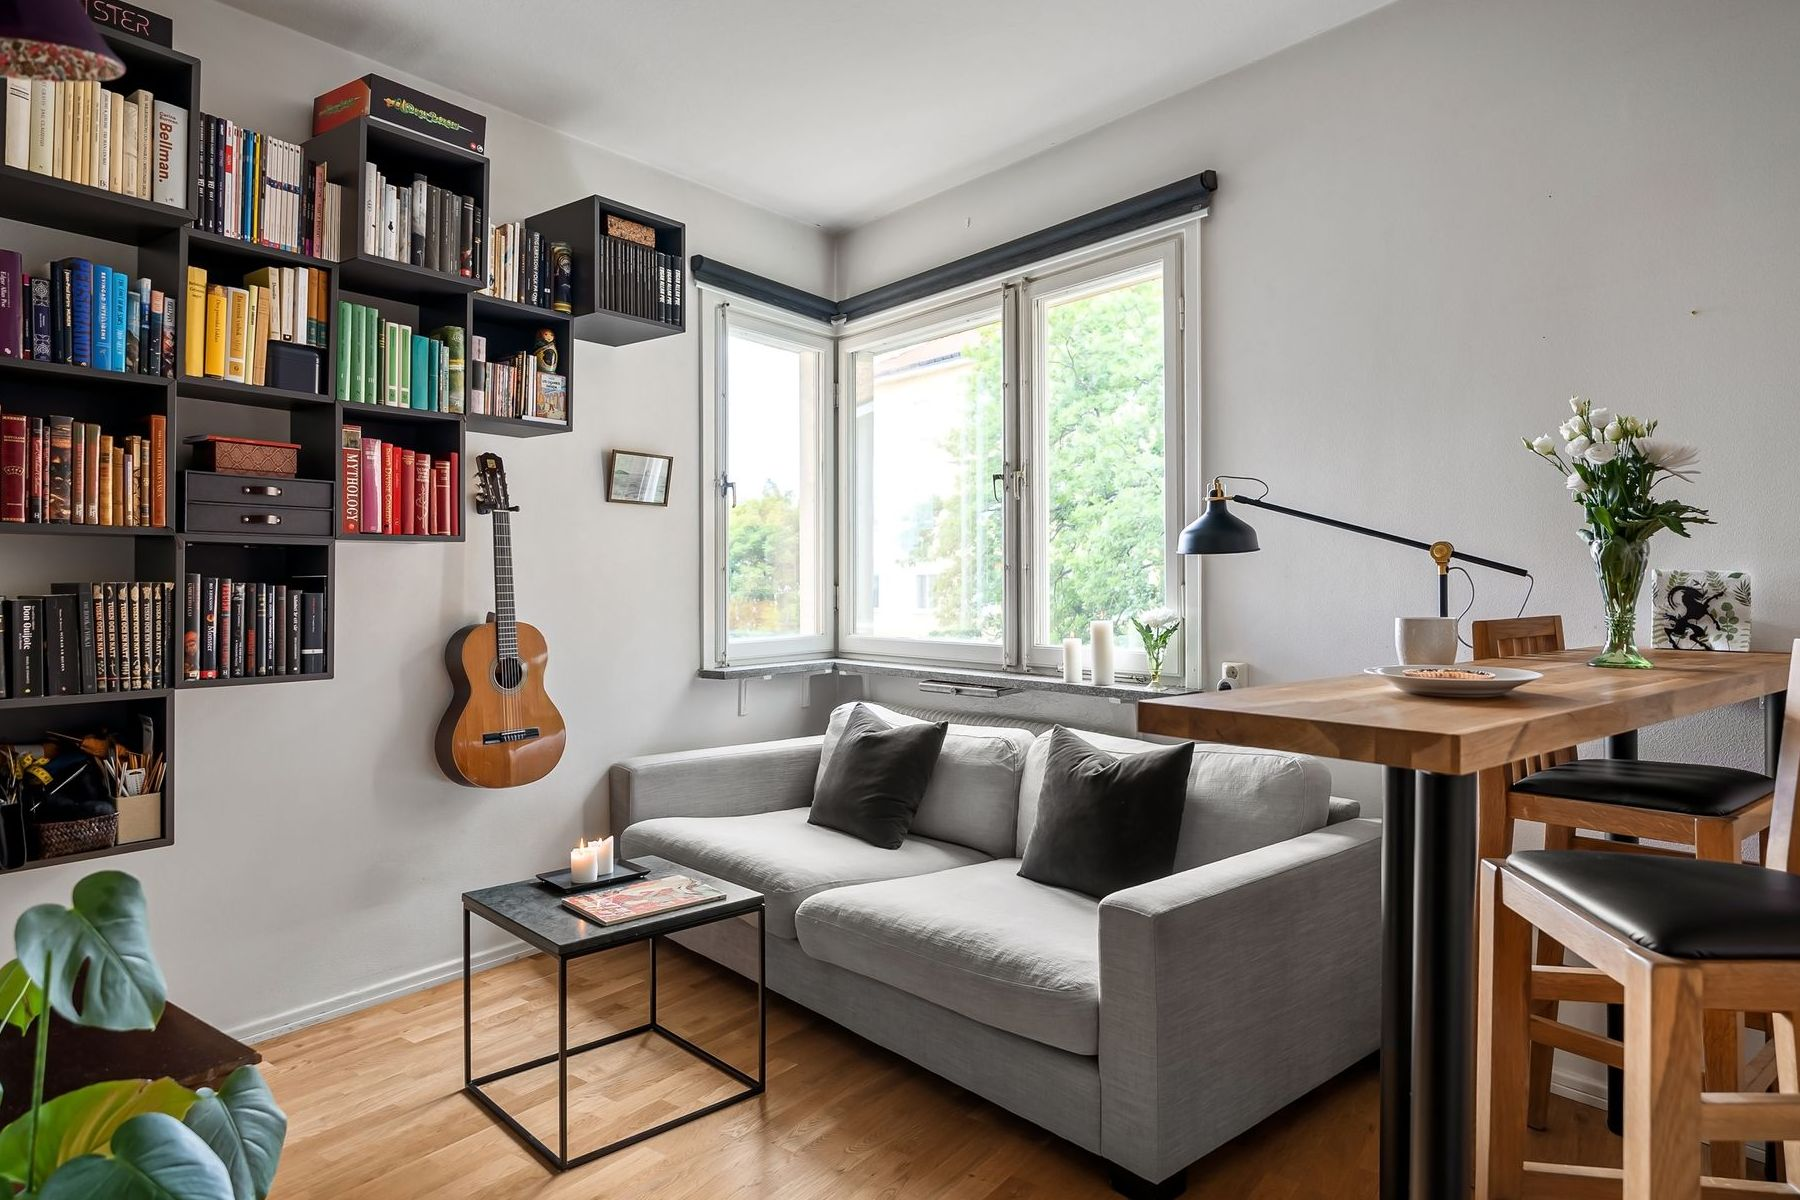
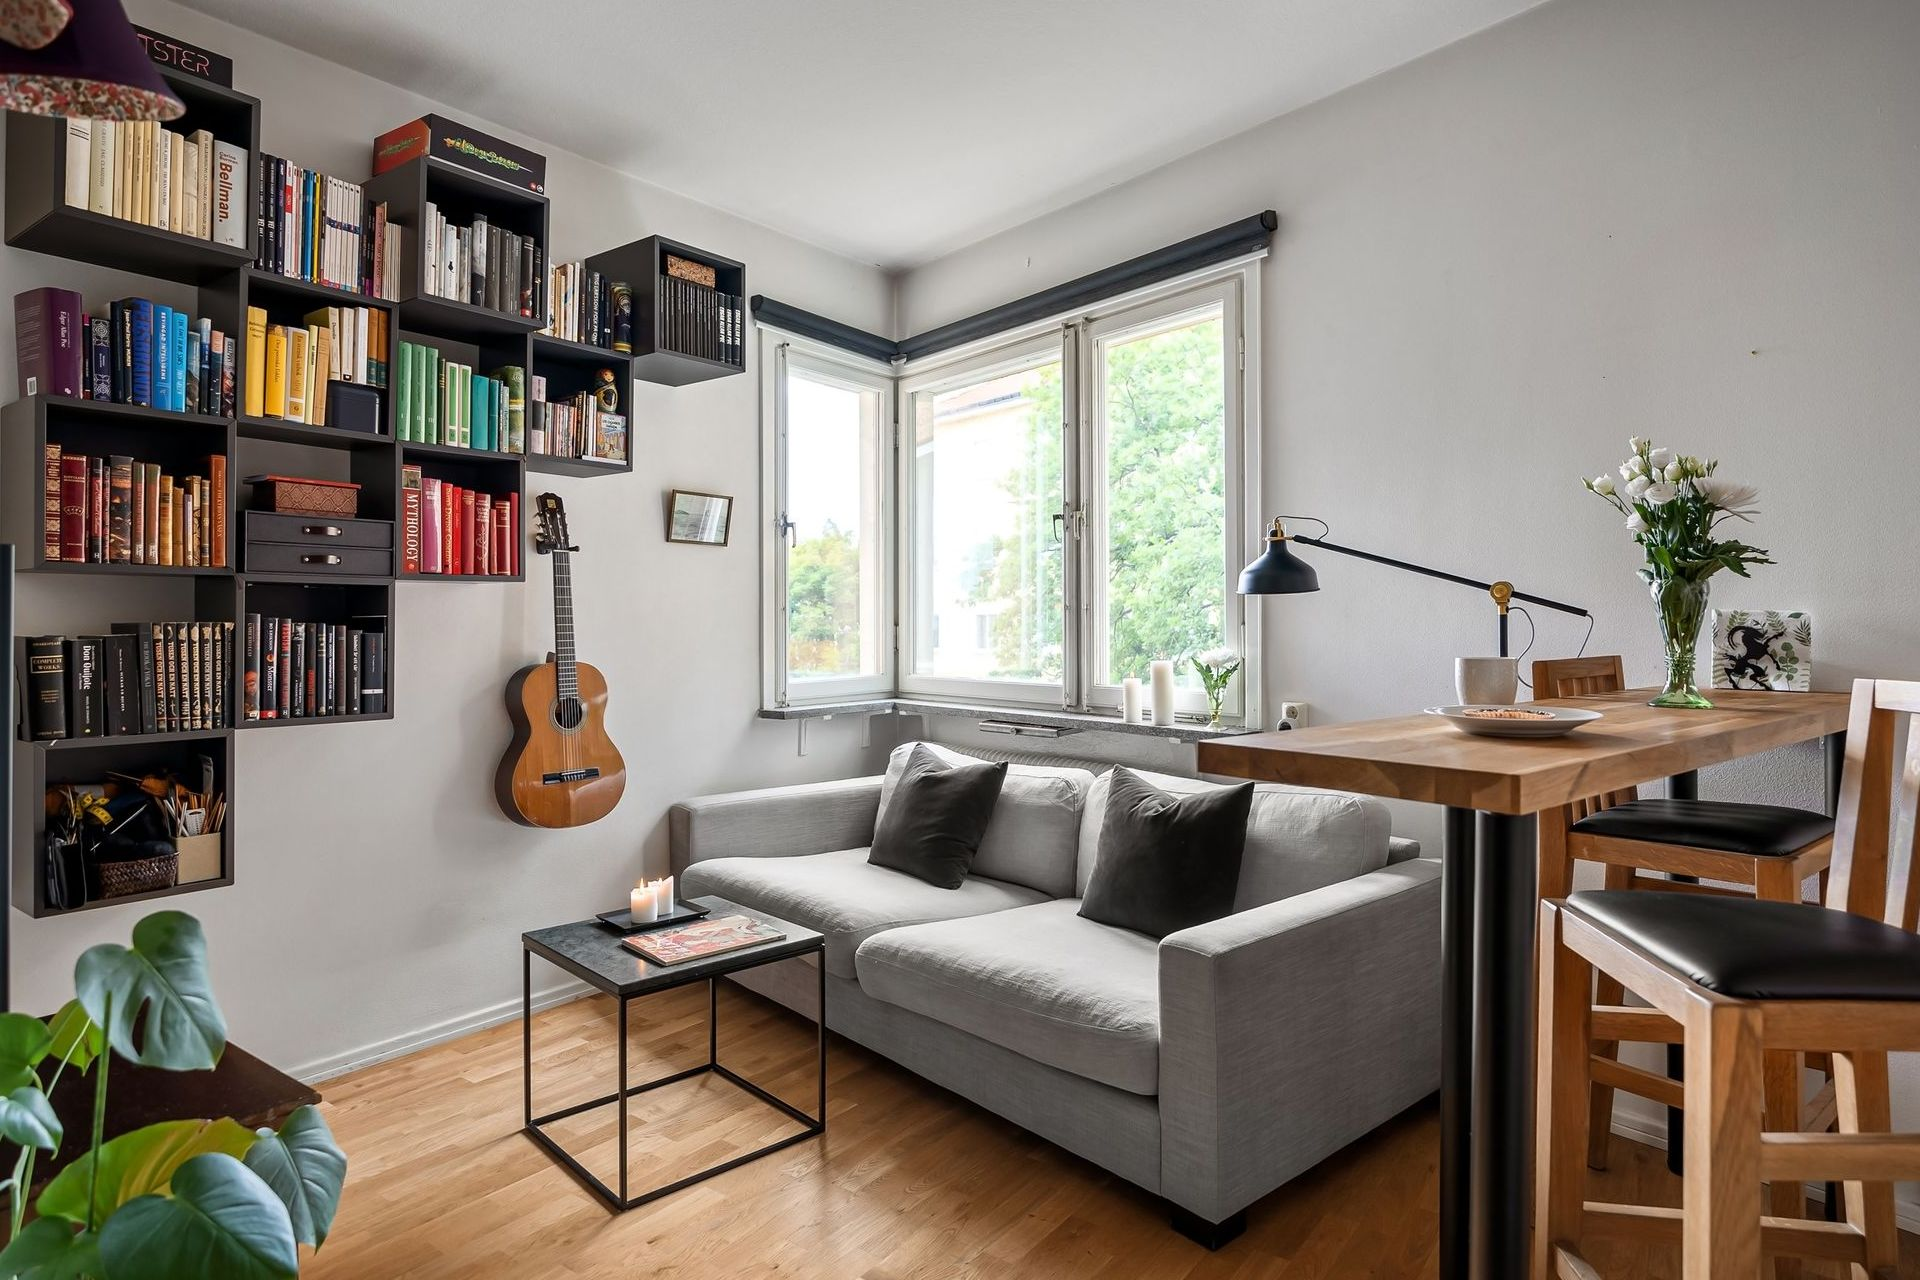
feat: photo quality checks (dark, blurry, duplicate)

diff --git a/packages/core/src/photos/quality.ts b/packages/core/src/photos/quality.ts
@@ -1,0 +1,90 @@
+import { readdirSync, readFileSync } from "node:fs";
+import { extname, basename, join } from "node:path";
+import sharp from "sharp";
+import type { Block, ImageMediaType } from "../model.js";
+
+export interface Photo {
+  /** File name without extension, e.g. "01-living". */
+  id: string;
+  mediaType: ImageMediaType;
+  data: Buffer;
+}
+
+export interface Measure {
+  id: string;
+  /** Mean luma, 0–255. */
+  brightness: number;
+  /** Variance of the Laplacian on a 512 px greyscale copy; low means blurry. */
+  sharpness: number;
+  /** 64-bit difference hash as hex; close hashes mean near-duplicates. */
+  hash: string;
+}
+
+/** Tuned on the sample: the planted photos, and only those, are flagged. */
+export const QUALITY_THRESHOLDS = { dark: 60, blur: 40, dupDistance: 10 };
+
+const TYPES: Record<string, ImageMediaType> = { ".jpg": "image/jpeg", ".jpeg": "image/jpeg", ".png": "image/png", ".webp": "image/webp" };
+
+/** Every photo in a folder, sorted by file name. */
+export function loadPhotos(dir: string): Photo[] {
+  return readdirSync(dir)
+    .filter((f) => extname(f).toLowerCase() in TYPES)
+    .sort()
+    .map((f) => ({ id: basename(f, extname(f)), mediaType: TYPES[extname(f).toLowerCase()]!, data: readFileSync(join(dir, f)) }));
+}
+
+export async function measurePhoto(photo: Photo): Promise<Measure> {
+  const stats = await sharp(photo.data).greyscale().stats();
+  const brightness = stats.channels[0]!.mean;
+
+  const { data: lap } = await sharp(photo.data)
+    .greyscale()
+    .resize({ width: 512 })
+    .convolve({ width: 3, height: 3, kernel: [0, 1, 0, 1, -4, 1, 0, 1, 0], offset: 128 })
+    .raw()
+    .toBuffer({ resolveWithObject: true });
+  let sum = 0;
+  let sq = 0;
+  for (const v of lap) {
+    sum += v;
+    sq += v * v;
+  }
+  const mean = sum / lap.length;
+  const sharpness = sq / lap.length - mean * mean;
+
+  const { data: small } = await sharp(photo.data).greyscale().resize(9, 8, { fit: "fill" }).raw().toBuffer({ resolveWithObject: true });
+  let bits = 0n;
+  for (let y = 0; y < 8; y++) for (let x = 0; x < 8; x++) bits = (bits << 1n) | (small[y * 9 + x]! > small[y * 9 + x + 1]! ? 1n : 0n);
+
+  return { id: photo.id, brightness, sharpness, hash: bits.toString(16).padStart(16, "0") };
+}
+
+const hamming = (a: string, b: string) => {
+  let x = BigInt(`0x${a}`) ^ BigInt(`0x${b}`);
+  let n = 0;
+  while (x) {
+    n += Number(x & 1n);
+    x >>= 1n;
+  }
+  return n;
+};
+
+/** Flags per photo id: "dark", "blurry", "duplicate_of:<earlier id>". */
+export function flagPhotos(measures: Measure[], t = QUALITY_THRESHOLDS): Record<string, string[]> {
+  const out: Record<string, string[]> = {};
+  measures.forEach((m, i) => {
+    const flags: string[] = [];
+    if (m.brightness < t.dark) flags.push("dark");
+    if (m.sharpness < t.blur) flags.push("blurry");
+    const dup = measures.slice(0, i).find((e) => hamming(e.hash, m.hash) <= t.dupDistance);
+    if (dup) flags.push(`duplicate_of:${dup.id}`);
+    out[m.id] = flags;
+  });
+  return out;
+}
+
+/** The photo as Bedrock gets it: long edge 1568 px, JPEG quality 80. */
+export async function prepareForModel(photo: Photo): Promise<Block> {
+  const buf = await sharp(photo.data).rotate().resize({ width: 1568, height: 1568, fit: "inside", withoutEnlargement: false }).jpeg({ quality: 80 }).toBuffer();
+  return { type: "image", mediaType: "image/jpeg", data: buf.toString("base64") };
+}

diff --git a/packages/core/test/quality.test.ts b/packages/core/test/quality.test.ts
@@ -1,0 +1,22 @@
+import { expect, test } from "vitest";
+import { flagPhotos, loadPhotos, measurePhoto, prepareForModel } from "../src/photos/quality.js";
+import { SAMPLE_DIR } from "../src/testing.js";
+
+test("flags exactly the planted photos in the sample", async () => {
+  const measures = await Promise.all(loadPhotos(`${SAMPLE_DIR}photos`).map(measurePhoto));
+  const flags = flagPhotos(measures);
+  expect(Object.entries(flags).filter(([, f]) => f.length)).toEqual([
+    ["14-dark", ["dark", "duplicate_of:02-living"]],
+    ["15-blurry", ["blurry", "duplicate_of:05-bedroom"]],
+    ["16-duplicate", ["duplicate_of:01-living"]],
+  ]);
+});
+
+test("prepareForModel resizes to a 1568 px long edge JPEG", async () => {
+  const [photo] = loadPhotos(`${SAMPLE_DIR}photos`);
+  const block = await prepareForModel(photo!);
+  expect(block).toMatchObject({ type: "image", mediaType: "image/jpeg" });
+  const sharp = (await import("sharp")).default;
+  const meta = await sharp(Buffer.from((block as { data: string }).data, "base64")).metadata();
+  expect(Math.max(meta.width!, meta.height!)).toBe(1568);
+});

diff --git a/scripts/make-sample.ts b/scripts/make-sample.ts
@@ -13,8 +13,8 @@ const jobs: [string, () => Promise<unknown>][] = [
     "photos/16-duplicate.jpg",
     async () => {
       const { width = 0, height = 0 } = await sharp(photo("01-living")).metadata();
-      const dx = Math.round(width * 0.05);
-      const dy = Math.round(height * 0.05);
+      const dx = Math.round(width * 0.02);
+      const dy = Math.round(height * 0.02);
       return sharp(photo("01-living"))
         .extract({ left: dx, top: dy, width: width - 2 * dx, height: height - 2 * dy })
         .jpeg({ quality: 80 })
